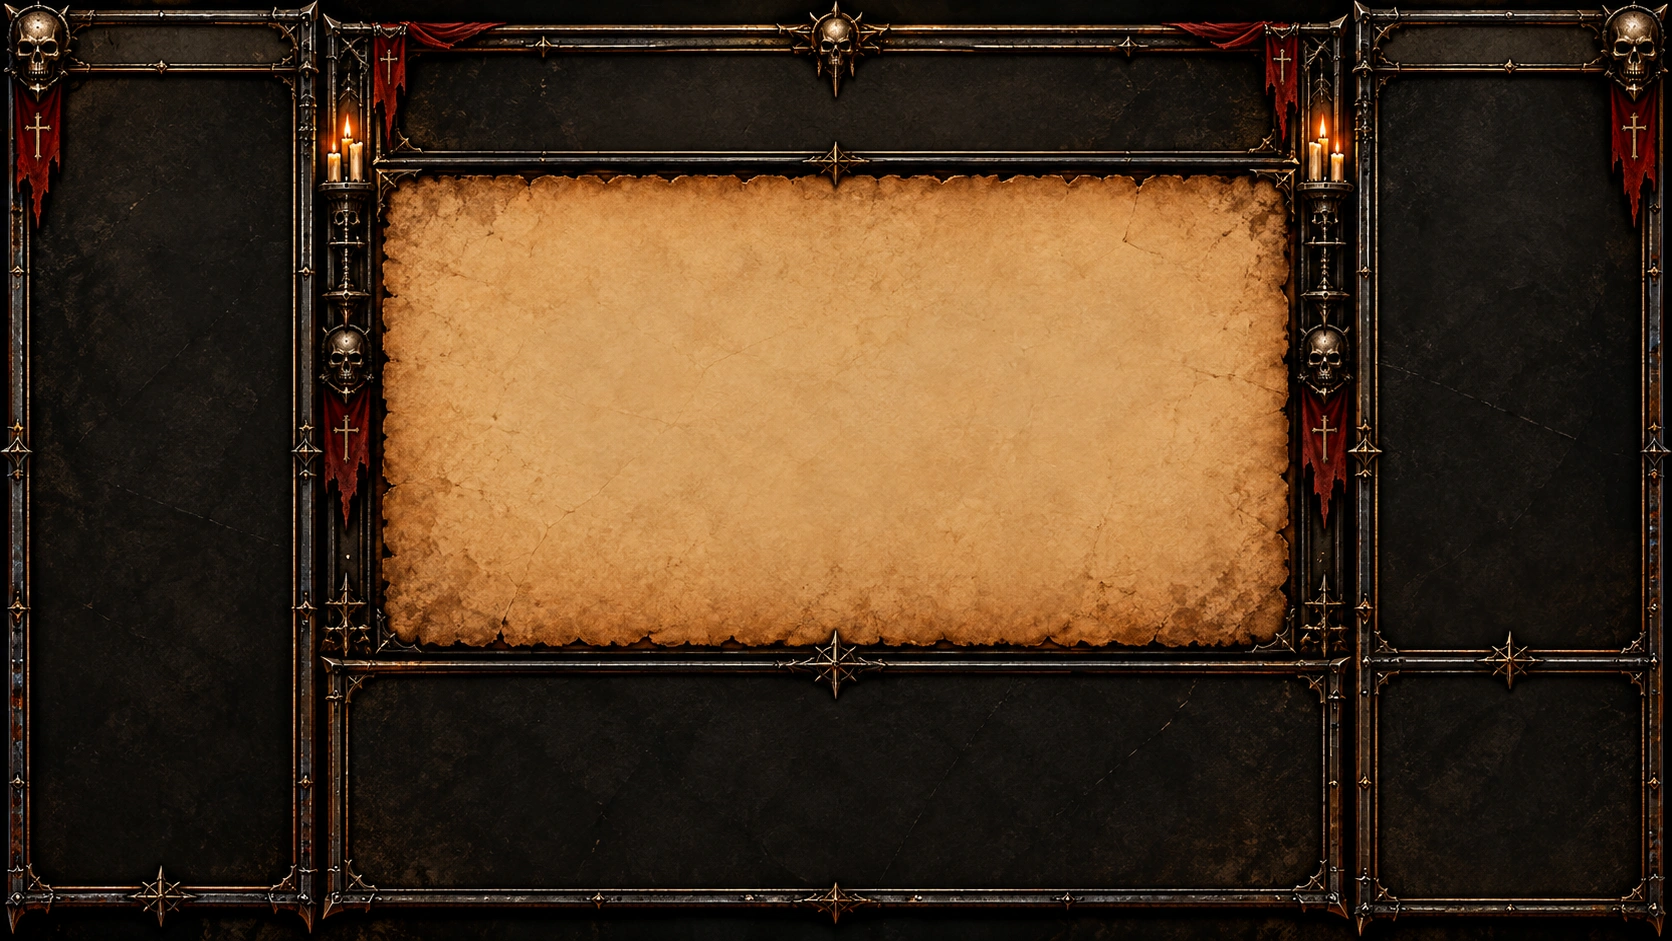
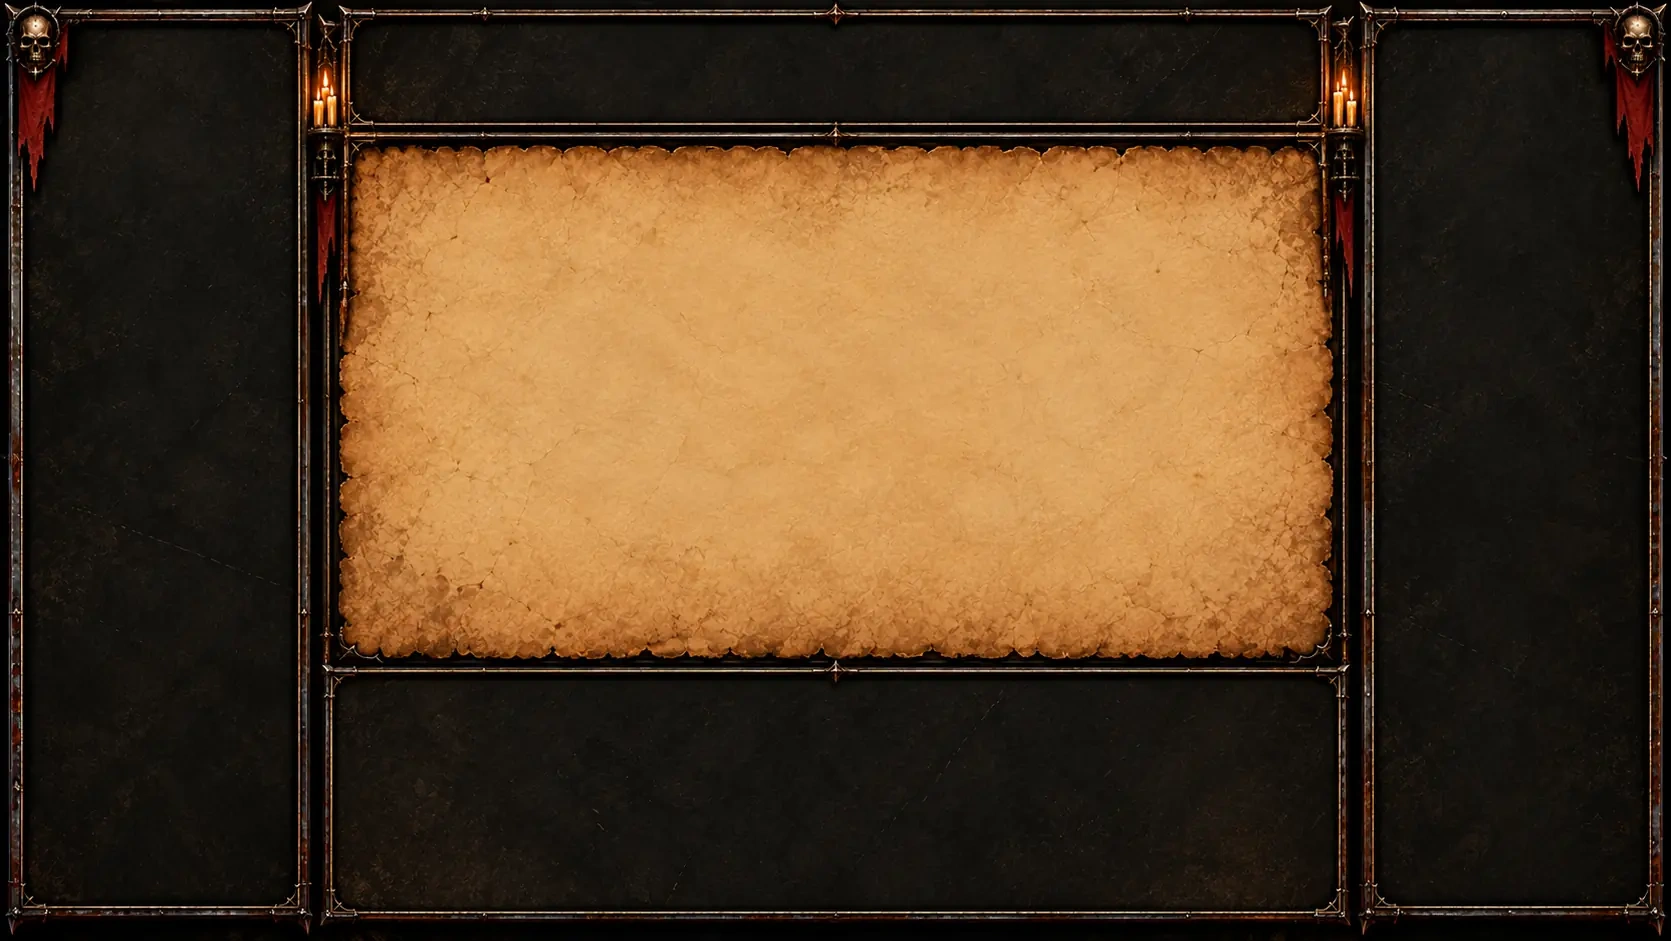
qsd

Changed region(s): [[0.0, 0.0, 1.0, 1.0]]

diff --git a/src/routes/vote.tsx b/src/routes/vote.tsx
@@ -1422,7 +1422,7 @@ function VotePage() {
       {/* Colonne gauche : GROUPE — cadre fourni par game_frame.webp en fond,
           le contenu vient juste se poser dedans avec assez de marge pour ne
           pas chevaucher la bordure ornée. */}
-      <div className="absolute z-10 top-0 bottom-0 overflow-y-auto px-5 py-10" style={{ left: 0, width: "21.8%" }}>
+      <div className="absolute z-10 top-0 bottom-0 overflow-y-auto px-4 py-6" style={{ left: 0, width: "20.6%" }}>
                 <p className="text-xs tracking-[0.14em] uppercase text-muted-foreground mb-2">Groupe</p>
                 <div className="space-y-1.5">
                   {participants.map((p, idx) => {
@@ -1516,28 +1516,51 @@ function VotePage() {
           d'actions — chacune calée sur les bandes mesurées dans
           game_frame.webp (bandeau ~5-16%, parchemin ~19-68%, zone
           d'actions ~71-99% de la hauteur du panneau). */}
-      <div className="absolute z-10 top-0 bottom-0 min-w-0" style={{ left: "21.8%", width: "56.2%" }}>
+      <div className="absolute z-10 top-0 bottom-0 min-w-0" style={{ left: "20.6%", width: "59%" }}>
         {step && (!step.resolved || verdictPending || revealingOutcome) && (
           <>
-            {/* Bandeau compact : étape/type, risque, butin, tout sur une ligne. */}
-            <div className="absolute flex items-center justify-center flex-wrap gap-x-4 gap-y-1 px-[6%] text-center" style={{ top: "5%", height: "11%", left: 0, right: 0 }}>
-              <span className="inline-flex items-center gap-2 text-sm font-serif tracking-[0.08em] text-primary">
-                {EVENT_TYPE_ICON[step.event_type] && (
-                  <img src={EVENT_TYPE_ICON[step.event_type]} alt="" className="h-5 w-5 object-contain" />
-                )}
-                Étape {step.step_number}, {step.event_type}
-              </span>
-              <span className={`text-xs font-semibold ${RISK_COLOR[step.risk_level]}`}>⚠ Risque {RISK_LABEL[step.risk_level]}</span>
-              <span className="text-xs text-amber-400 font-mono">Butin : {step.loot_min}–{step.loot_max} or</span>
-              {visibleRisk !== null && <span className="text-[11px] font-mono opacity-80">({Math.round(visibleRisk * 100)}% connu de tous)</span>}
-              {myPrivateRisk !== null && <span className="text-[11px] font-mono text-primary">({Math.round(myPrivateRisk * 100)}% connu de toi seul)</span>}
+            {/* Bandeau compact : étape/type + risque deux fois plus gros
+                qu'avant, jauge intégrée ici (réduite), plus de gros bloc
+                séparé plus bas. */}
+            <div className="absolute flex items-center justify-between gap-4 px-[6%]" style={{ top: "3%", height: "11%", left: 0, right: 0 }}>
+              <div className="text-left min-w-0">
+                <p className="inline-flex items-center gap-2 text-xl font-serif tracking-[0.06em] text-primary truncate">
+                  {EVENT_TYPE_ICON[step.event_type] && (
+                    <img src={EVENT_TYPE_ICON[step.event_type]} alt="" className="h-6 w-6 object-contain shrink-0" />
+                  )}
+                  Étape {step.step_number}, {step.event_type}
+                </p>
+                <p className="flex items-center flex-wrap gap-x-3 gap-y-0.5 text-base mt-0.5">
+                  <span className={`font-semibold ${RISK_COLOR[step.risk_level]}`}>⚠ Risque {RISK_LABEL[step.risk_level]}</span>
+                  <span className="text-amber-400 font-mono text-sm">Butin : {step.loot_min}–{step.loot_max} or</span>
+                  {visibleRisk !== null && <span className="text-xs font-mono opacity-80">({Math.round(visibleRisk * 100)}% connu de tous)</span>}
+                  {myPrivateRisk !== null && <span className="text-xs font-mono text-primary">({Math.round(myPrivateRisk * 100)}% connu de toi seul)</span>}
+                </p>
+              </div>
+              {(() => {
+                const knownRisk = resolvingRisk ?? visibleRisk ?? myPrivateRisk;
+                if (knownRisk == null) return null;
+                const fillPct = revealingOutcome ? gaugeWobble : Math.round((1 - knownRisk) * 100);
+                return (
+                  <div className="shrink-0 w-28">
+                    <div className="h-1.5 border border-border/60 relative overflow-hidden rounded-sm">
+                      <div className={`absolute inset-y-0 left-0 bg-gradient-to-r from-red-500/70 via-amber-400/70 to-emerald-500/70 ${revealingOutcome ? "transition-all duration-200 ease-out" : "transition-all duration-700 ease-out"}`}
+                        style={{ width: `${fillPct}%` }} />
+                    </div>
+                    <div className="flex justify-between text-[8px] uppercase tracking-[0.08em] text-muted-foreground mt-0.5">
+                      <span>Échec</span>
+                      <span>Réussite</span>
+                    </div>
+                  </div>
+                );
+              })()}
             </div>
 
             {/* Illustration 16:9, calée sur la zone parchemin de game_frame.webp. */}
             {step.description && (() => {
               const parchmentBg = pickParchmentBg(step);
               return (
-                <div className="absolute overflow-hidden rounded-sm" style={{ top: "19%", height: "49%", left: "4%", right: "4%" }}>
+                <div className="absolute overflow-hidden rounded-sm" style={{ top: "14.5%", height: "55%", left: "4%", right: "4%" }}>
                   {parchmentBg && (
                     <img src={parchmentBg} alt="" aria-hidden
                       className="absolute inset-0 w-full h-full object-cover pointer-events-none select-none opacity-90" />
@@ -1562,7 +1585,7 @@ function VotePage() {
                 Continuer/Rentrer, la réserve personnelle, et le reste du
                 contenu variable (troisième option, capacités, votes,
                 larcin) y cohabitent sans jamais dépasser l'écran. ================= */}
-            <div className="absolute overflow-y-auto flex flex-col gap-2" style={{ top: "71%", bottom: "2%", left: "4%", right: "4%" }}>
+            <div className="absolute overflow-y-auto flex flex-col gap-2" style={{ top: "70.5%", bottom: "4%", left: "4%", right: "4%" }}>
             {!step.resolving && !verdictPending && !revealingOutcome && (
               <div className="flex flex-col gap-2">
                 {isAsync ? (
@@ -1824,22 +1847,8 @@ function VotePage() {
             )}
             {!verdictPending && (step.resolving || revealingOutcome) && (
               <>
-                {resolvingRisk != null && (
-                  <p className="text-center text-sm text-red-400 mb-3">Risque de cette étape : {Math.round(resolvingRisk * 100)}%</p>
-                )}
-                <div className="mb-6">
-                  <div className="h-4 border border-border/60 relative overflow-hidden">
-                    <div
-                      className={`absolute inset-y-0 left-0 bg-gradient-to-r from-red-500/60 via-amber-400/60 to-emerald-500/60 ${revealingOutcome ? "transition-all duration-200 ease-out" : "transition-all duration-700 ease-out"}`}
-                      style={{ width: `${revealingOutcome ? gaugeWobble : Math.round((1 - (resolvingRisk ?? 0)) * 100)}%` }}
-                    />
-                  </div>
-                  <div className="flex justify-between text-[10px] uppercase tracking-[0.1em] text-muted-foreground mt-1">
-                    <span>Échec</span>
-                    <span>Réussite</span>
-                  </div>
-                </div>
-
+                {/* Le risque et la jauge vivent maintenant dans le bandeau du
+                    haut (voir plus haut) — plus de gros bloc séparé ici. */}
                 {revealingOutcome ? (
                   <p className="text-center text-sm text-muted-foreground mb-4 italic">…</p>
                 ) : (
@@ -1928,7 +1937,7 @@ function VotePage() {
         )}
       </div>
       {/* Colonne droite : CHAT plein cadre, notifications en bas. */}
-      <div className="absolute z-10 top-0 bottom-0 flex flex-col px-5 py-10" style={{ right: 0, width: "22%" }}>
+      <div className="absolute z-10 top-0 bottom-0 flex flex-col px-4 py-6" style={{ right: 0, width: "20.4%" }}>
         <ChatBox expeditionId={expeditionId} character={character} />
         <NotificationsPanel character={character} />
       </div>
